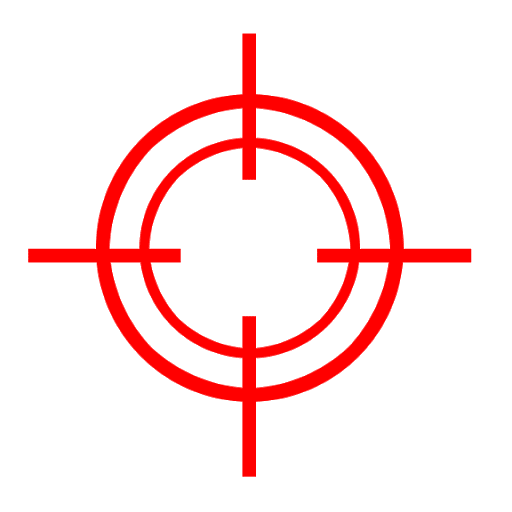
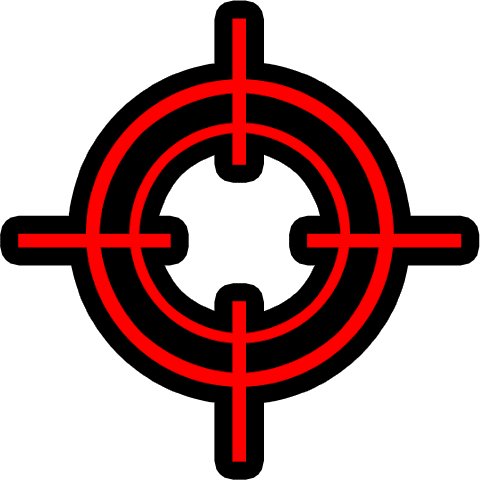
new assets and new main menu screen

diff --git a/core/src/com/mygdx/game/states/screens/MainMenuScreen.java b/core/src/com/mygdx/game/states/screens/MainMenuScreen.java
@@ -4,6 +4,7 @@ import com.badlogic.gdx.Gdx;
 import com.badlogic.gdx.graphics.Texture;
 import com.badlogic.gdx.scenes.scene2d.InputEvent;
 import com.badlogic.gdx.scenes.scene2d.InputListener;
+import com.badlogic.gdx.scenes.scene2d.Stage;
 import com.badlogic.gdx.scenes.scene2d.ui.Image;
 import com.mygdx.game.Application;
 import com.mygdx.game.managers.ScreenManager;
@@ -23,6 +24,16 @@ public class MainMenuScreen extends AbstractScreen {
     @Override
     public void initScreen() {
         Texture playTexture = new Texture("play.png");
+        Texture backgroundTexture = new Texture("mainmenu.png");
+
+        // Initialise background
+        Image background = new Image(backgroundTexture);
+        background.setSize(Gdx.graphics.getWidth(), Gdx.graphics.getHeight());
+        background.setPosition(
+                (Application.camera.viewportWidth) - (background.getWidth()),
+                (Application.camera.viewportHeight) - (background.getHeight())
+        );
+        Application.stage.addActor(background);
 
         // Initialise Play Button
         Image playImg = new Image(playTexture);
@@ -35,6 +46,7 @@ public class MainMenuScreen extends AbstractScreen {
 
             @Override
             public void touchUp(InputEvent event, float x, float y, int pointer, int button) {
+                SM.removeAllActors(); // Removes all current actors from Application.stage
                 SM.setScreen(ScreenManager.STATE.PLAY);
             }
         });

diff --git a/core/src/com/mygdx/game/ECS/entities/Projectiles/BouncerProjectile.java b/core/src/com/mygdx/game/ECS/entities/Projectiles/BouncerProjectile.java
@@ -21,8 +21,8 @@ public class BouncerProjectile extends AbstractProjectile {
     int damage = 5;
     float speed = 1f;
     Vector2 size = new Vector2(10f, 10f);
-    Vector2 position = new Vector2(Application.camera.viewportWidth / 2f, Application.camera.viewportHeight);
-    public Texture texture = new Texture("play.png");
+    Vector2 position = new Vector2(0f, 0f);
+    public Texture texture = new Texture("bouncer.png");
     ProjectileType type = new BouncyType(); // The projectile type indicates which algorithm the projectile follows (these algorithms determine the behaviour of a projectile)
 
     @Override

diff --git a/core/src/com/mygdx/game/ECS/entities/Projectiles/SpeedyProjectile.java b/core/src/com/mygdx/game/ECS/entities/Projectiles/SpeedyProjectile.java
@@ -15,7 +15,7 @@ public class SpeedyProjectile extends AbstractProjectile {
     float speed = 1.5f;
     Vector2 size = new Vector2(10f, 10f);
     Vector2 position = new Vector2(0f, 0f);
-    public Texture texture = new Texture("button_restart.png");
+    public Texture texture = new Texture("speedy.png");
     ProjectileType type = new StandardType(); // The projectile type indicates which algorithm the projectile follows (these algorithms determine the behaviour of a projectile)
 
     @Override

diff --git a/core/src/com/mygdx/game/ECS/entities/Projectiles/DefaultProjectile.java b/core/src/com/mygdx/game/ECS/entities/Projectiles/DefaultProjectile.java
@@ -15,7 +15,7 @@ public class DefaultProjectile extends AbstractProjectile {
     float speed = 1f;
     Vector2 size = new Vector2(10f, 10f);
     Vector2 position = new Vector2(0f, 0f);
-    public Texture texture = new Texture("cannonball.png");
+    public Texture texture = new Texture("default.png");
     ProjectileType type = new StandardType(); // The projectile type indicates which algorithm the projectile follows (these algorithms determine the behaviour of a projectile)
 
     @Override

diff --git a/core/src/com/mygdx/game/ECS/entities/Projectiles/SplitterProjectile.java b/core/src/com/mygdx/game/ECS/entities/Projectiles/SplitterProjectile.java
@@ -17,7 +17,7 @@ public class SplitterProjectile extends AbstractProjectile {
     float speed = 1f;
     Vector2 size = new Vector2(15f, 15f);
     Vector2 position = new Vector2(0f, 0f);
-    public Texture texture = new Texture("badlogic.jpg");
+    public Texture texture = new Texture("splitter.png");
     ProjectileType type = new SplitterType(); // The projectile type indicates which algorithm the projectile follows (these algorithms determine the behaviour of a projectile)
 
     @Override

diff --git a/core/src/com/mygdx/game/managers/ScreenManager.java b/core/src/com/mygdx/game/managers/ScreenManager.java
@@ -78,7 +78,7 @@ public class ScreenManager {
     }
 
     // Remove all current actors
-    private void removeAllActors() {
+    public void removeAllActors() {
         Array<Actor> actors = Application.stage.getActors();
 
         for (int i = 0; i < actors.size; i++) {
